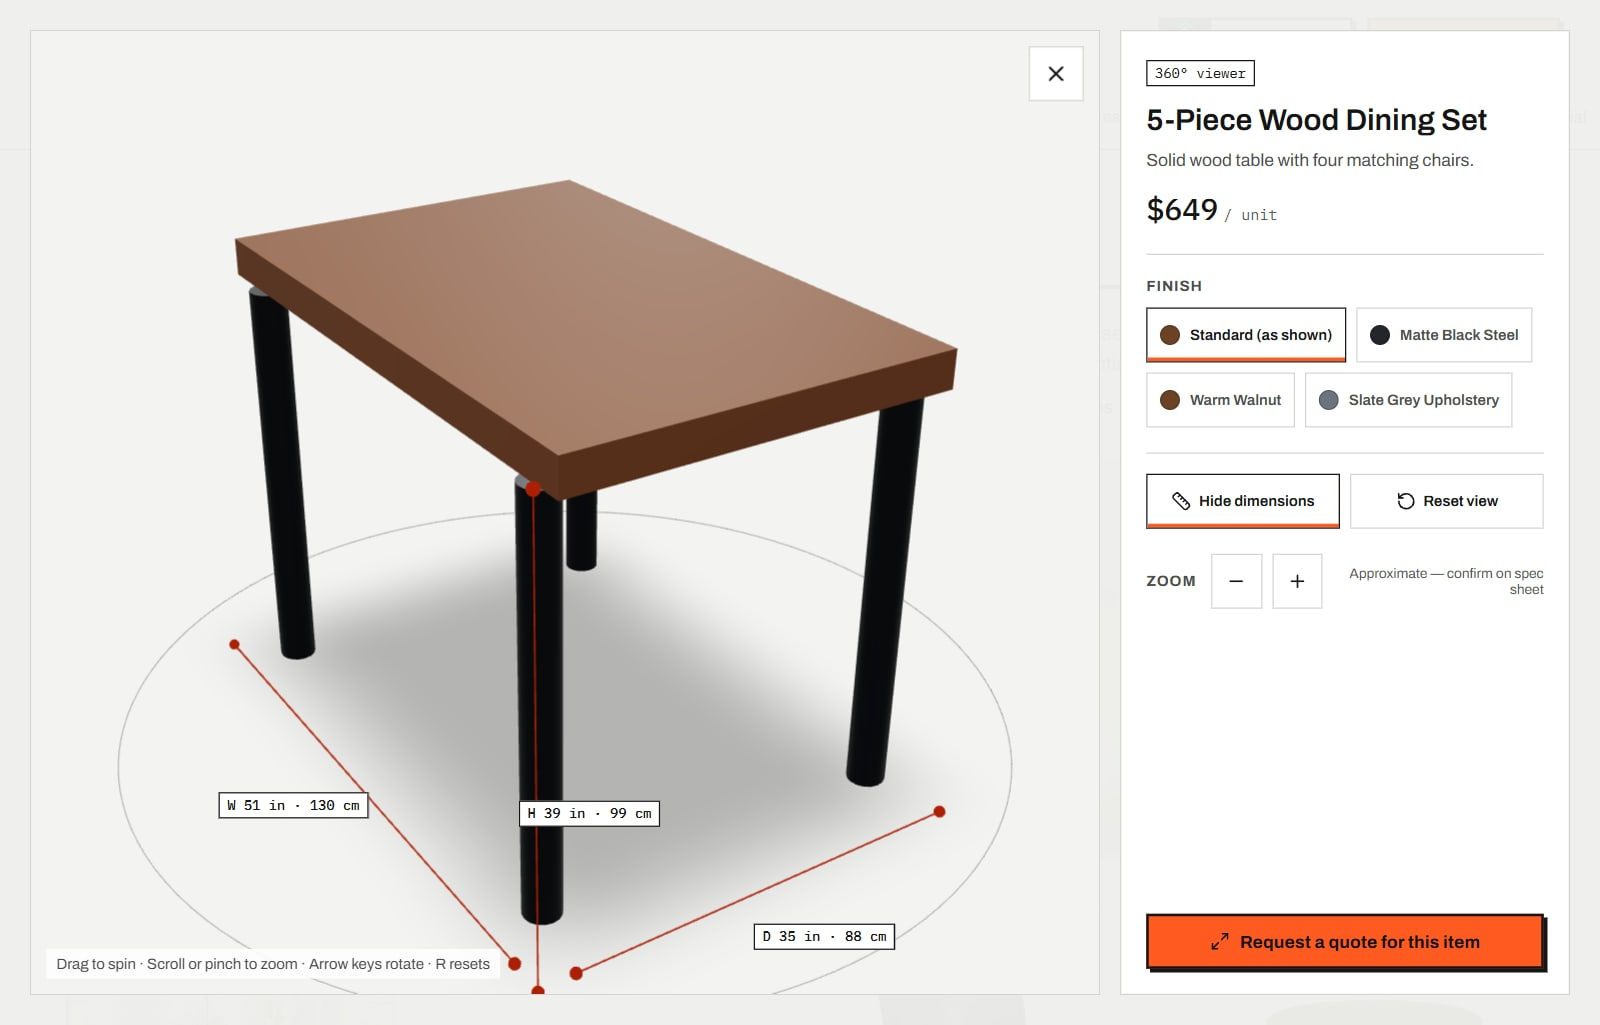
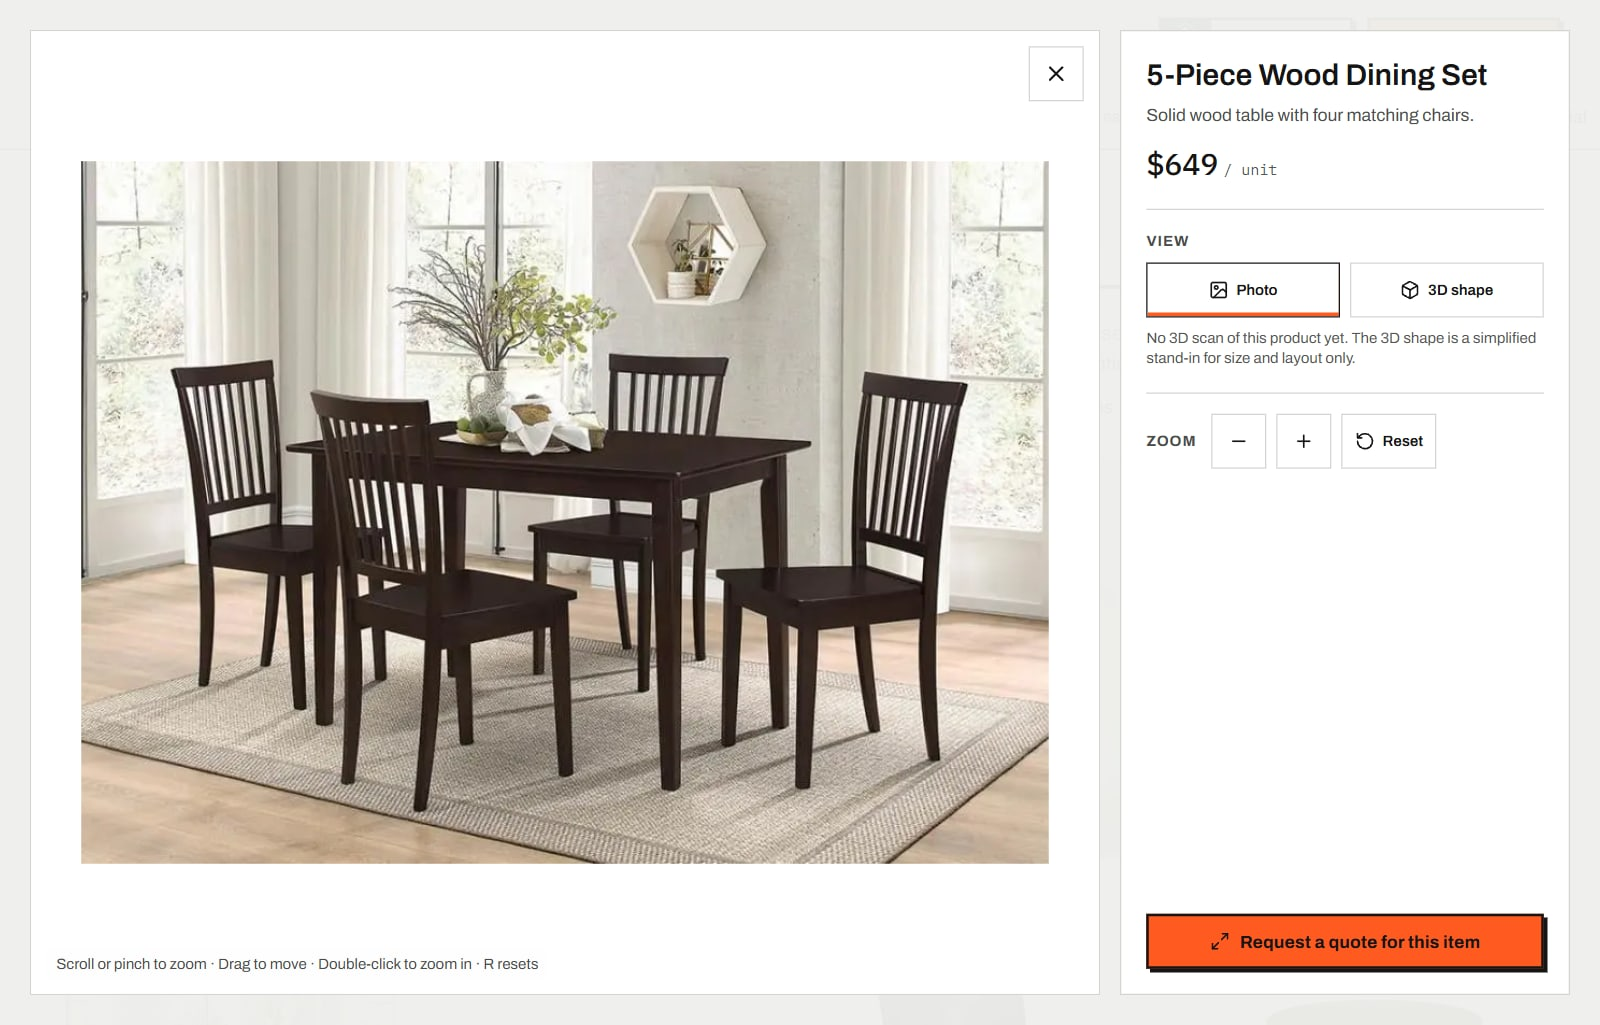
Showcase: viewer now opens on the real product photo

diff --git a/index.html b/index.html
@@ -232,7 +232,7 @@
 
     <div class="hero-meta">
       <div class="hero-copy">
-        <p class="lede">A bolder look on a clean white page, a live 3D room, a 360° viewer on every product, real product photos and the complete Nooksguard security catalog. The new site is live now.</p>
+        <p class="lede">A bolder look on a clean white page, a live 3D room, a zoomable view of every real product, real product photos and the complete Nooksguard security catalog. The new site is live now.</p>
         <a class="btn-live" href="https://merkabanooks.vercel.app" target="_blank" rel="noopener">Visit the live site <span aria-hidden="true">→</span></a>
         <span class="mono live-url">merkabanooks.vercel.app</span>
       </div>
@@ -262,7 +262,7 @@
       <ul>
         <li><span>Bold white redesign</span></li>
         <li><span>Live 3D room</span></li>
-        <li><span>360° on every product</span></li>
+        <li><span>Zoom into every product</span></li>
         <li><span>33 real product photos</span></li>
         <li><span>12 Nooksguard families</span></li>
         <li><span>99 security models</span></li>
@@ -270,7 +270,7 @@
       <ul aria-hidden="true">
         <li><span>Bold white redesign</span></li>
         <li><span>Live 3D room</span></li>
-        <li><span>360° on every product</span></li>
+        <li><span>Zoom into every product</span></li>
         <li><span>33 real product photos</span></li>
         <li><span>12 Nooksguard families</span></li>
         <li><span>99 security models</span></li>
@@ -298,23 +298,23 @@
         </div>
       </article>
       <article class="tile">
-        <button class="shot" type="button" data-enlarge="room.jpg" data-title="Live 3D room" data-caption="Six real catalog products in a furnished unit. Turn it, tap a number, and that piece opens in the 360° viewer.">
+        <button class="shot" type="button" data-enlarge="room.jpg" data-title="Live 3D room" data-caption="Six real catalog products in a furnished unit. Turn it, tap a number, and the real product opens up close.">
           <img src="room.jpg" alt="The 3D room with numbered callouts over a bed, nightstand, dresser, wardrobe, desk and chair" width="1600" height="1025">
           <span class="enlarge">Enlarge</span>
         </button>
         <div class="tile-body">
           <h3 class="display">Live 3D room</h3>
-          <p>Six real catalog products in a furnished unit. Turn it, tap a number, and that piece opens in 360°.</p>
+          <p>Six real catalog products in a furnished unit. Turn it, tap a number, and the real product opens up close.</p>
         </div>
       </article>
       <article class="tile">
-        <button class="shot" type="button" data-enlarge="viewer.jpg" data-title="360° on every product" data-caption="Spin, zoom, switch finishes and see width, depth and height lines, then request a quote for that exact item.">
-          <img src="viewer.jpg" alt="The 360 degree viewer showing a dining table with measurement lines and a side panel with finishes" width="1600" height="1025">
+        <button class="shot" type="button" data-enlarge="viewer.jpg" data-title="Zoom into every product" data-caption="Every product opens full screen on its real photo. Scroll or pinch to zoom, drag to move, then request a quote for that exact item. A simplified 3D shape is there as a labelled extra.">
+          <img src="viewer.jpg" alt="The product viewer showing the real photo of a five-piece wood dining set, with zoom controls and a Request a quote button" width="1600" height="1025">
           <span class="enlarge">Enlarge</span>
         </button>
         <div class="tile-body">
-          <h3 class="display">360° on every product</h3>
-          <p>Spin, zoom, switch finishes and see dimensions, then request a quote for that exact item.</p>
+          <h3 class="display">Zoom into every product</h3>
+          <p>Every product opens on its real photo. Zoom in, then request a quote for that exact item.</p>
         </div>
       </article>
       <article class="tile">
